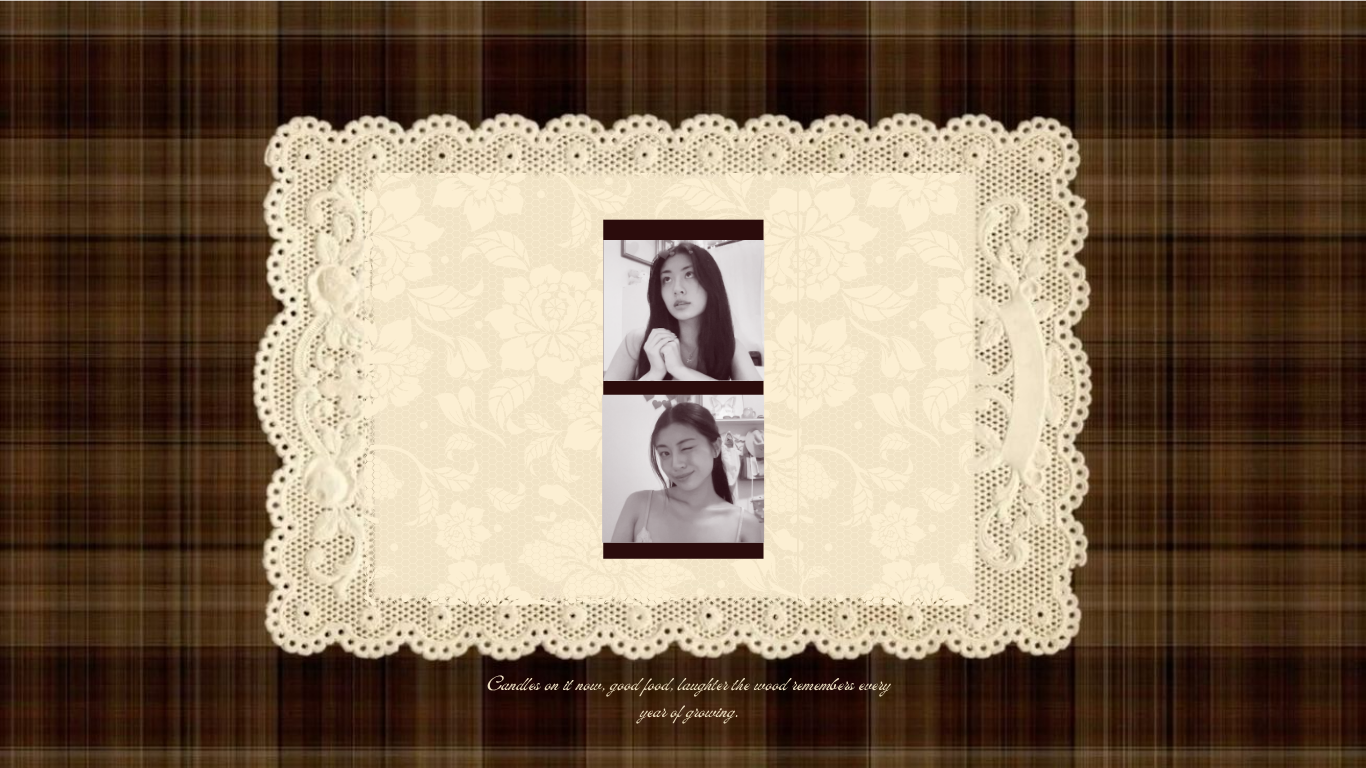
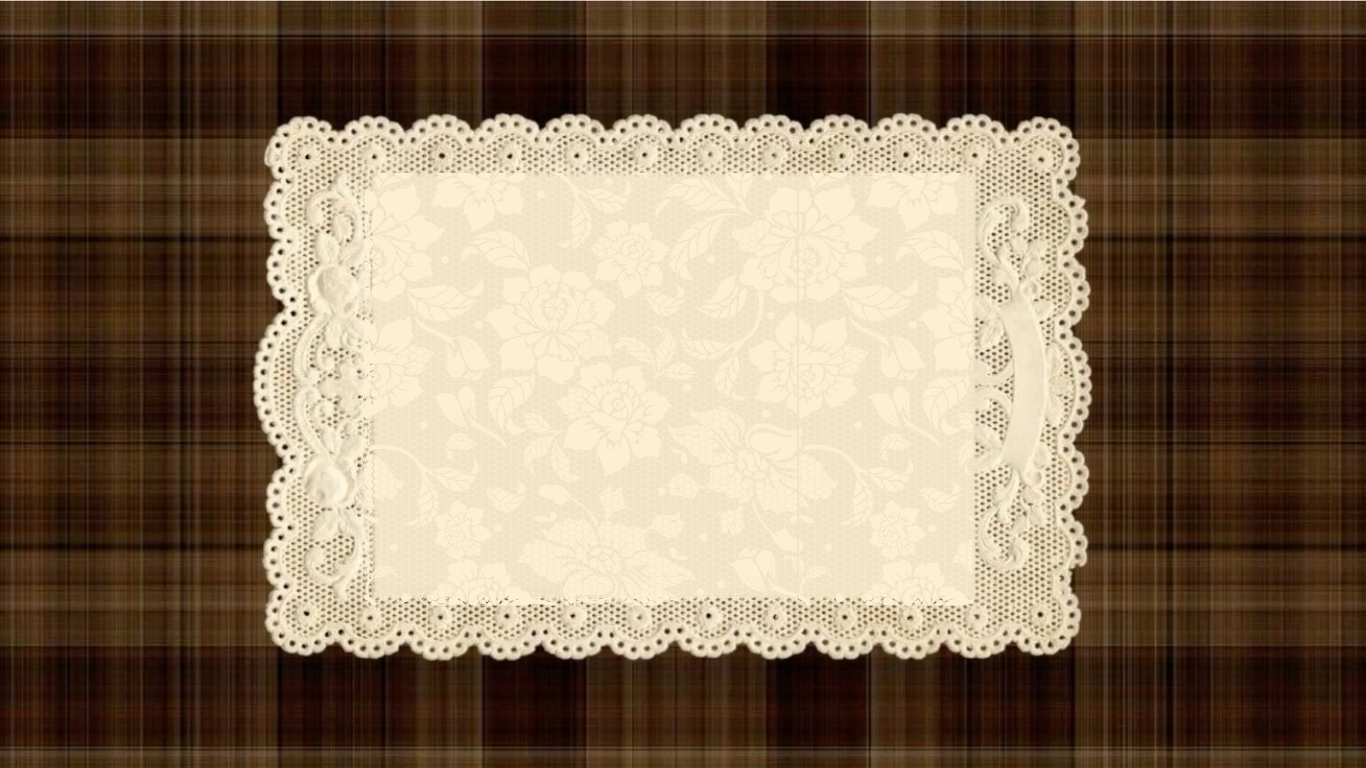
fix enter button, frame order, photo stacking

Changed region(s): [[0.4305, 0.2812, 0.5842, 0.75], [0.3382, 0.875, 0.6457, 0.9375]]

diff --git a/app.js b/app.js
@@ -9,41 +9,44 @@ const photos = { 1: null, 2: null }; // ImageBitmap after loading
 /* ── Frame layout data (positions as % of 1366×768 container)
       Each entry: { photos: [{l,t,w,h}, ...], poem: {l,t,w,align} }
       l/t/w/h are 0–100 percentages of the container dimension      */
+/* Photo height as % of container = w * (1366/768)
+   w=16.4 → h=29.2%   w=15.8 → h=28.1%
+   2-photo stack centered in mat (y: 5%–95%):
+     t1 = 5 + (90 - 2*h) / 2,  t2 = t1 + h                  */
 const FRAMES = {
   1: {
-    // Dark red frame (3.png)
-    // Single photo centered in upper mat; or 2 stacked vertically
-    photos1: [{ l: 41.8, t: 13.5, w: 16.4, h: 28.9 }],
+    // Dark red frame (frame1.png)
+    photos1: [{ l: 41.8, t: 35.4, w: 16.4 }],
     photos2: [
-      { l: 41.8, t: 9.0,  w: 16.4, h: 27.5 },
-      { l: 41.8, t: 49.5, w: 16.4, h: 27.5 }
+      { l: 41.8, t: 20.8, w: 16.4 },
+      { l: 41.8, t: 50.0, w: 16.4 }
     ],
     poem: { l: 20, t: 82.5, w: 60, align: 'center' }
   },
   2: {
-    // Plaid / doily frame (4.png)
-    photos1: [{ l: 41.8, t: 18.0, w: 16.4, h: 27.5 }],
+    // Plaid / doily frame (frame2.png)
+    photos1: [{ l: 41.8, t: 35.4, w: 16.4 }],
     photos2: [
-      { l: 41.8, t: 12.5, w: 16.4, h: 27.5 },
-      { l: 41.8, t: 52.0, w: 16.4, h: 27.5 }
+      { l: 41.8, t: 20.8, w: 16.4 },
+      { l: 41.8, t: 50.0, w: 16.4 }
     ],
     poem: { l: 18, t: 83.5, w: 64, align: 'center' }
   },
   3: {
-    // Pink stripe + stars frame (5.png)
-    photos1: [{ l: 24.0, t: 23.0, w: 15.8, h: 27.9 }],
+    // Pink stripe + stars frame (frame3.png)
+    photos1: [{ l: 24.0, t: 35.9, w: 15.8 }],
     photos2: [
-      { l: 24.0, t: 18.0, w: 15.8, h: 27.5 },
-      { l: 24.0, t: 52.5, w: 15.8, h: 27.5 }
+      { l: 24.0, t: 21.9, w: 15.8 },
+      { l: 24.0, t: 50.0, w: 15.8 }
     ],
     poem: { l: 59.0, t: 38.0, w: 32, align: 'left' }
   },
   4: {
-    // Green polka dot frame (6.png)
-    photos1: [{ l: 33.0, t: 15.5, w: 15.8, h: 27.9 }],
+    // Green polka dot frame (frame4.png)
+    photos1: [{ l: 33.0, t: 35.9, w: 15.8 }],
     photos2: [
-      { l: 33.0, t: 11.5, w: 15.8, h: 27.5 },
-      { l: 33.0, t: 49.0, w: 15.8, h: 27.5 }
+      { l: 33.0, t: 21.9, w: 15.8 },
+      { l: 33.0, t: 50.0, w: 15.8 }
     ],
     poem: { l: 60.0, t: 18.0, w: 34, align: 'left' }
   }

diff --git a/style.css b/style.css
@@ -36,16 +36,12 @@ html, body {
   display: block;
 }
 
-/* "enter" button overlaid on the booth door curtain area */
+/* "enter" button centered over the booth door curtain area */
 .enter-btn {
   position: absolute;
-  /* Positioned over the red curtain/enter area in 1.png
-     1.png is 1366×768; the "enter" word sits at roughly
-     left:33%, top:50% of the image */
-  left: 27%;
-  top: 48%;
-  width: 18%;
-  height: 14%;
+  left: 33%;
+  top: 52%;
+  transform: translate(-50%, -50%);
   background: transparent;
   border: none;
   cursor: pointer;
@@ -55,11 +51,9 @@ html, body {
   text-shadow: 0 1px 4px rgba(0,0,0,0.5);
   letter-spacing: 0.05em;
   transition: color 0.2s, text-shadow 0.2s;
-  padding: 0;
+  padding: 8px 16px;
   line-height: 1;
-  display: flex;
-  align-items: center;
-  justify-content: center;
+  white-space: nowrap;
 }
 .enter-btn:hover {
   color: #ffe8cc;
@@ -93,14 +87,8 @@ html, body {
 }
 .frame-pick {
   background: transparent;
-  border: 2px solid transparent;
+  border: none;
   cursor: pointer;
-  border-radius: 4px;
-  transition: border-color 0.2s, background 0.2s;
-}
-.frame-pick:hover {
-  border-color: rgba(255, 220, 130, 0.7);
-  background: rgba(255, 240, 180, 0.12);
 }
 
 /* ─── SCREEN 3 · Upload ──────────────────────────────────────────── */

diff --git a/index.html b/index.html
@@ -23,8 +23,8 @@
     <div class="select-wrap">
       <img src="assets/selector.png" alt="Pick a frame" class="select-img">
       <div class="frame-grid">
+        <button class="frame-pick" data-frame="2" onclick="selectFrame(2)" aria-label="Frame 2: Plaid/Lace"></button>
         <button class="frame-pick" data-frame="1" onclick="selectFrame(1)" aria-label="Frame 1: Dark Red"></button>
-        <button class="frame-pick" data-frame="2" onclick="selectFrame(2)" aria-label="Frame 2: Plaid"></button>
         <button class="frame-pick" data-frame="3" onclick="selectFrame(3)" aria-label="Frame 3: Pink Stripe"></button>
         <button class="frame-pick" data-frame="4" onclick="selectFrame(4)" aria-label="Frame 4: Green Polka Dot"></button>
       </div>
